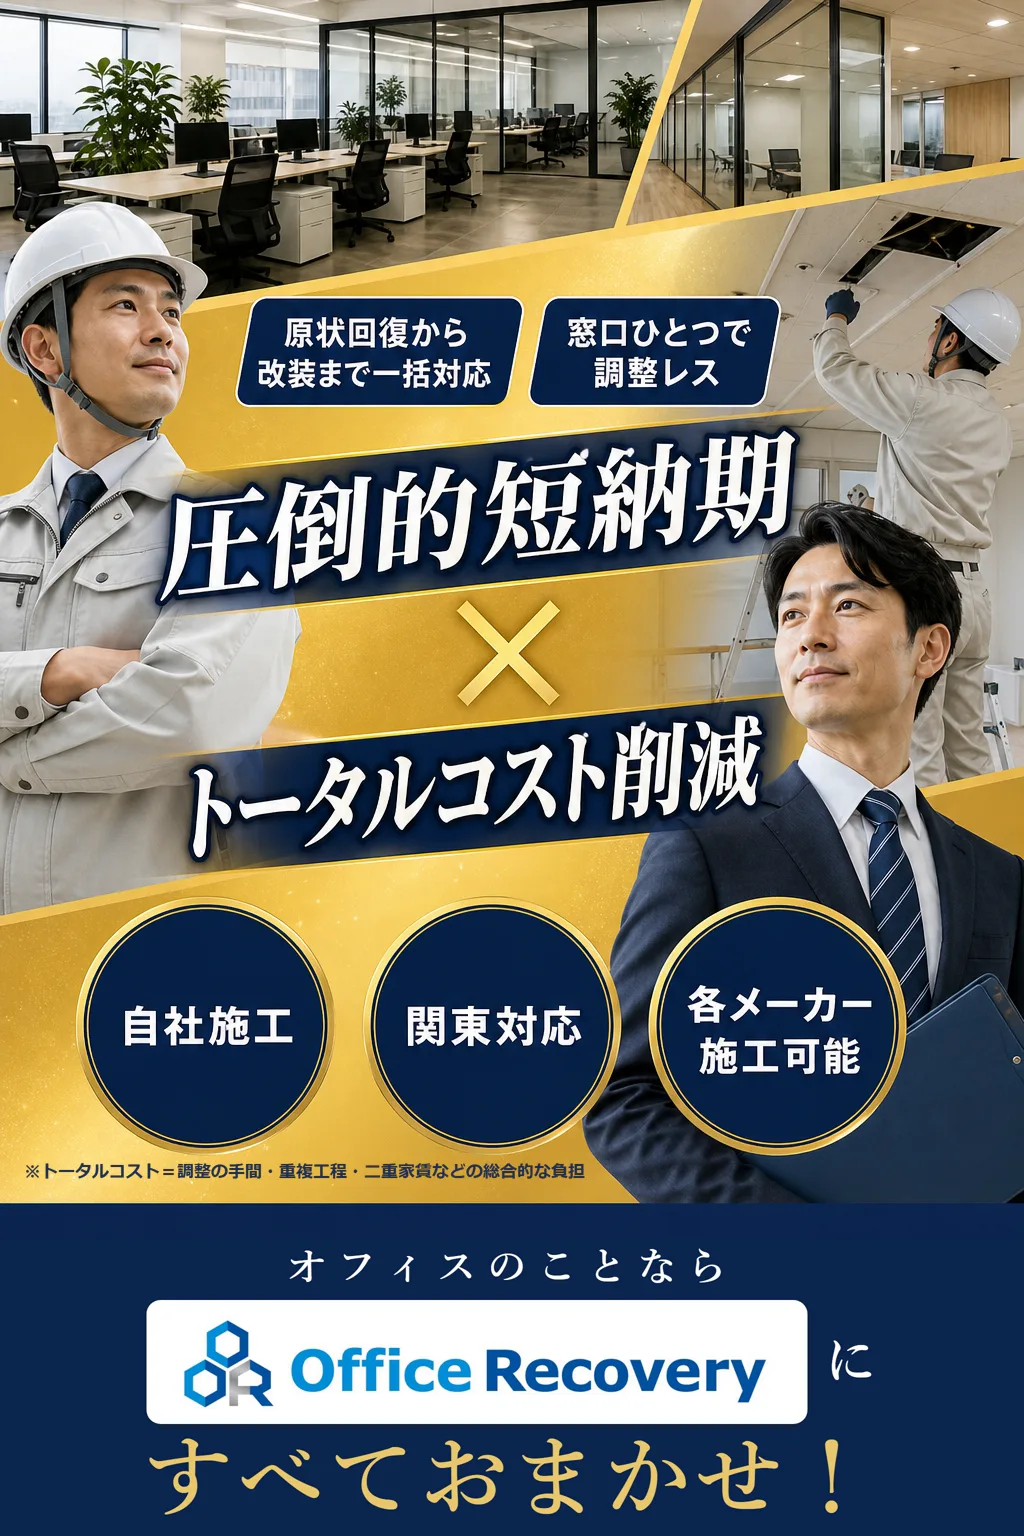
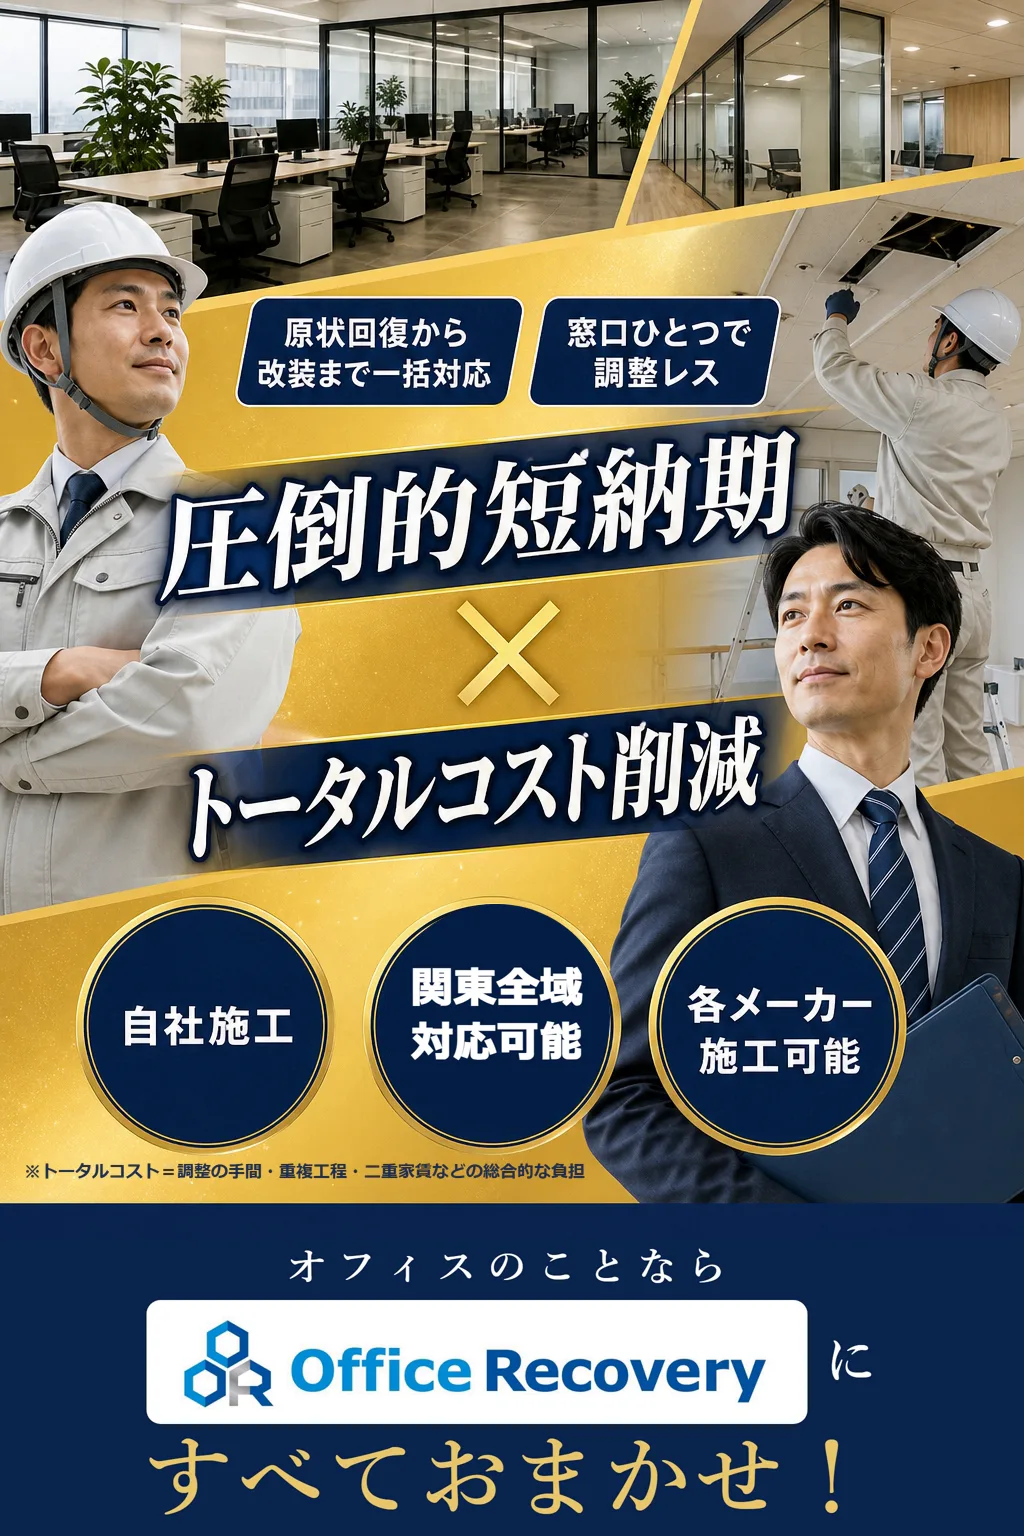
v32: drop redundant stats band, 2-line service pill with client copy, kanto-zeniki wording, CTA to "mazuwa muryou de soudan"

Changed region(s): [[0.375, 0.5938, 0.5938, 0.6875], [0.4688, 0.5625, 0.5, 0.5938]]

diff --git a/v32/index.html b/v32/index.html
@@ -4,9 +4,9 @@
   <meta charset="utf-8">
   <meta name="viewport" content="width=device-width, initial-scale=1">
   <title>Office Recovery｜原状回復も、新オフィス工事も、改装も。まるごとお任せ</title>
-  <meta name="description" content="圧倒的短納期×トータルコスト削減。オフィスの原状回復・新オフィス工事・改装をまるごとお任せ。窓口ひとつ・関東対応・初回相談とお見積りは無料。">
+  <meta name="description" content="圧倒的短納期×トータルコスト削減。オフィスの原状回復・新オフィス工事・改装をまるごとお任せ。窓口ひとつ・関東全域対応可能・初回相談とお見積りは無料。">
   <meta property="og:title" content="Office Recovery｜原状回復も、新オフィス工事も、改装も。まるごとお任せ">
-  <meta property="og:description" content="圧倒的短納期×トータルコスト削減。オフィスの原状回復・新オフィス工事・改装をまるごとお任せ。窓口ひとつ・関東対応・初回相談とお見積りは無料。">
+  <meta property="og:description" content="圧倒的短納期×トータルコスト削減。オフィスの原状回復・新オフィス工事・改装をまるごとお任せ。窓口ひとつ・関東全域対応可能・初回相談とお見積りは無料。">
   <meta property="og:image" content="images/x01.webp">
   <style>
     * { box-sizing: border-box; }
@@ -159,19 +159,18 @@
   <main class="page">
     <header class="site-header">
       <img src="images/logo.png" alt="Office Recovery">
-      <a href="mailto:contact@example.com?subject=%E3%80%90Office%20Recovery%E3%80%91%E7%84%A1%E6%96%99%E7%9B%B8%E8%AB%87&body=%E9%80%80%E5%8E%BB%E4%BA%88%E5%AE%9A%E6%97%A5%EF%BC%9A%0D%0A%E7%89%A9%E4%BB%B6%E6%89%80%E5%9C%A8%E5%9C%B0%EF%BC%9A%0D%0A%E3%81%8A%E3%81%8A%E3%82%88%E3%81%9D%E3%81%AE%E5%9D%AA%E6%95%B0%EF%BC%9A%0D%0A%E3%81%94%E7%9B%B8%E8%AB%87%E5%86%85%E5%AE%B9%EF%BC%9A%0D%0A">メールで<span class="free">無料</span>相談</a>
+      <a href="mailto:contact@example.com?subject=%E3%80%90Office%20Recovery%E3%80%91%E7%84%A1%E6%96%99%E7%9B%B8%E8%AB%87&body=%E9%80%80%E5%8E%BB%E4%BA%88%E5%AE%9A%E6%97%A5%EF%BC%9A%0D%0A%E7%89%A9%E4%BB%B6%E6%89%80%E5%9C%A8%E5%9C%B0%EF%BC%9A%0D%0A%E3%81%8A%E3%81%8A%E3%82%88%E3%81%9D%E3%81%AE%E5%9D%AA%E6%95%B0%EF%BC%9A%0D%0A%E3%81%94%E7%9B%B8%E8%AB%87%E5%86%85%E5%AE%B9%EF%BC%9A%0D%0A">まずは<span class="free">無料</span>で相談</a>
     </header>
 
-    <img src="images/x01.webp" alt="圧倒的短納期×トータルコスト削減。オフィスのことならOffice Recoveryにすべておまかせ！自社施工・関東対応・各メーカー施工可能。※トータルコスト＝調整の手間・重複工程・二重家賃などの総合的な負担を指します">
+    <img src="images/x01.webp" alt="圧倒的短納期×トータルコスト削減。オフィスのことならOffice Recoveryにすべておまかせ！自社施工・関東全域対応可能・各メーカー施工可能。※トータルコスト＝調整の手間・重複工程・二重家賃などの総合的な負担を指します">
 
     <div class="cta-band">
       <p class="lead">まずは工程の整理から、お気軽にどうぞ。</p>
-      <a href="mailto:contact@example.com?subject=%E3%80%90Office%20Recovery%E3%80%91%E7%84%A1%E6%96%99%E7%9B%B8%E8%AB%87&body=%E9%80%80%E5%8E%BB%E4%BA%88%E5%AE%9A%E6%97%A5%EF%BC%9A%0D%0A%E7%89%A9%E4%BB%B6%E6%89%80%E5%9C%A8%E5%9C%B0%EF%BC%9A%0D%0A%E3%81%8A%E3%81%8A%E3%82%88%E3%81%9D%E3%81%AE%E5%9D%AA%E6%95%B0%EF%BC%9A%0D%0A%E3%81%94%E7%9B%B8%E8%AB%87%E5%86%85%E5%AE%B9%EF%BC%9A%0D%0A">今すぐ！メールで<span class="free">無料</span>相談する</a>
+      <a href="mailto:contact@example.com?subject=%E3%80%90Office%20Recovery%E3%80%91%E7%84%A1%E6%96%99%E7%9B%B8%E8%AB%87&body=%E9%80%80%E5%8E%BB%E4%BA%88%E5%AE%9A%E6%97%A5%EF%BC%9A%0D%0A%E7%89%A9%E4%BB%B6%E6%89%80%E5%9C%A8%E5%9C%B0%EF%BC%9A%0D%0A%E3%81%8A%E3%81%8A%E3%82%88%E3%81%9D%E3%81%AE%E5%9D%AA%E6%95%B0%EF%BC%9A%0D%0A%E3%81%94%E7%9B%B8%E8%AB%87%E5%86%85%E5%AE%B9%EF%BC%9A%0D%0A">まずは<span class="free">無料</span>で相談</a>
       <p class="sub">退去日・物件所在地・おおよその坪数だけでOK<br><span class="ex">ボタンを押すと本文テンプレ（退去予定日／所在地／坪数／ご相談内容）が入ります</span></p>
     </div>
     <!-- LINE-BUTTON-SLOT: LINE公式開通後にここへボタン挿入 -->
 
-    <img src="images/y-stats.webp" alt="初回相談 無料／お見積り 無料／対応工事 12項目／対応エリア 関東対応" loading="lazy">
     <img src="images/x02.webp" alt="対応工事の一覧：オフィスレイアウト・パーティション間仕切り・壁面工事・床工事OAフロア・什器オフィス家具・受付サイン・電話回線LAN配線・セキュリティ工事・造作工事・原状回復不用品回収・空調工事・防災工事" loading="lazy">
     <img src="images/x03.webp" alt="オフィスの退去・移転・改装で、このようなお悩みはありませんか？" loading="lazy">
     <img src="images/y-declare.webp" alt="レイアウト作成から内装施工まで、オフィス内装のことはすべてOffice Recoveryにお任せください！" loading="lazy">
@@ -189,7 +188,7 @@
 
     <div class="cta-band">
       <p class="lead">移転全体の段取り、整理からお手伝いします。</p>
-      <a href="mailto:contact@example.com?subject=%E3%80%90Office%20Recovery%E3%80%91%E7%84%A1%E6%96%99%E7%9B%B8%E8%AB%87&body=%E9%80%80%E5%8E%BB%E4%BA%88%E5%AE%9A%E6%97%A5%EF%BC%9A%0D%0A%E7%89%A9%E4%BB%B6%E6%89%80%E5%9C%A8%E5%9C%B0%EF%BC%9A%0D%0A%E3%81%8A%E3%81%8A%E3%82%88%E3%81%9D%E3%81%AE%E5%9D%AA%E6%95%B0%EF%BC%9A%0D%0A%E3%81%94%E7%9B%B8%E8%AB%87%E5%86%85%E5%AE%B9%EF%BC%9A%0D%0A">メールで<span class="free">無料</span>相談する</a>
+      <a href="mailto:contact@example.com?subject=%E3%80%90Office%20Recovery%E3%80%91%E7%84%A1%E6%96%99%E7%9B%B8%E8%AB%87&body=%E9%80%80%E5%8E%BB%E4%BA%88%E5%AE%9A%E6%97%A5%EF%BC%9A%0D%0A%E7%89%A9%E4%BB%B6%E6%89%80%E5%9C%A8%E5%9C%B0%EF%BC%9A%0D%0A%E3%81%8A%E3%81%8A%E3%82%88%E3%81%9D%E3%81%AE%E5%9D%AA%E6%95%B0%EF%BC%9A%0D%0A%E3%81%94%E7%9B%B8%E8%AB%87%E5%86%85%E5%AE%B9%EF%BC%9A%0D%0A">まずは<span class="free">無料</span>で相談</a>
       <p class="sub">退去日・物件所在地・おおよその坪数だけでOK<br><span class="ex">ボタンを押すと本文テンプレ（退去予定日／所在地／坪数／ご相談内容）が入ります</span></p>
     </div>
 
@@ -199,11 +198,11 @@
     <img src="images/x06.webp" alt="ご依頼の流れ" loading="lazy">
     <img src="images/y-qa.webp" alt="よくあるご質問" loading="lazy">
 
-    <p class="fact-band">運営会社: 株式会社Center Field ／ 関東対応 ／ 自社施工 ／ お見積り無料</p>
+    <p class="fact-band">運営会社: 株式会社Center Field ／ 関東全域対応可能 ／ 自社施工 ／ お見積り無料</p>
 
     <img src="images/x07.webp" alt="原状回復も、新オフィス工事も、改装も。まとめて相談できる窓口です" loading="lazy">
     <div class="closing-cta">
-      <a href="mailto:contact@example.com?subject=%E3%80%90Office%20Recovery%E3%80%91%E7%84%A1%E6%96%99%E7%9B%B8%E8%AB%87&body=%E9%80%80%E5%8E%BB%E4%BA%88%E5%AE%9A%E6%97%A5%EF%BC%9A%0D%0A%E7%89%A9%E4%BB%B6%E6%89%80%E5%9C%A8%E5%9C%B0%EF%BC%9A%0D%0A%E3%81%8A%E3%81%8A%E3%82%88%E3%81%9D%E3%81%AE%E5%9D%AA%E6%95%B0%EF%BC%9A%0D%0A%E3%81%94%E7%9B%B8%E8%AB%87%E5%86%85%E5%AE%B9%EF%BC%9A%0D%0A">メールで<span class="free">無料</span>相談する</a>
+      <a href="mailto:contact@example.com?subject=%E3%80%90Office%20Recovery%E3%80%91%E7%84%A1%E6%96%99%E7%9B%B8%E8%AB%87&body=%E9%80%80%E5%8E%BB%E4%BA%88%E5%AE%9A%E6%97%A5%EF%BC%9A%0D%0A%E7%89%A9%E4%BB%B6%E6%89%80%E5%9C%A8%E5%9C%B0%EF%BC%9A%0D%0A%E3%81%8A%E3%81%8A%E3%82%88%E3%81%9D%E3%81%AE%E5%9D%AA%E6%95%B0%EF%BC%9A%0D%0A%E3%81%94%E7%9B%B8%E8%AB%87%E5%86%85%E5%AE%B9%EF%BC%9A%0D%0A">まずは<span class="free">無料</span>で相談</a>
     </div>
 
     <!-- FORM-SLOT: 問い合わせフォーム実装時にここへ挿入 -->
@@ -216,7 +215,7 @@
     <div class="cta-spacer"></div>
   </main>
   <div class="sticky-cta">
-    <a href="mailto:contact@example.com?subject=%E3%80%90Office%20Recovery%E3%80%91%E7%84%A1%E6%96%99%E7%9B%B8%E8%AB%87&body=%E9%80%80%E5%8E%BB%E4%BA%88%E5%AE%9A%E6%97%A5%EF%BC%9A%0D%0A%E7%89%A9%E4%BB%B6%E6%89%80%E5%9C%A8%E5%9C%B0%EF%BC%9A%0D%0A%E3%81%8A%E3%81%8A%E3%82%88%E3%81%9D%E3%81%AE%E5%9D%AA%E6%95%B0%EF%BC%9A%0D%0A%E3%81%94%E7%9B%B8%E8%AB%87%E5%86%85%E5%AE%B9%EF%BC%9A%0D%0A">メールで<span class="free">無料</span>相談する</a>
+    <a href="mailto:contact@example.com?subject=%E3%80%90Office%20Recovery%E3%80%91%E7%84%A1%E6%96%99%E7%9B%B8%E8%AB%87&body=%E9%80%80%E5%8E%BB%E4%BA%88%E5%AE%9A%E6%97%A5%EF%BC%9A%0D%0A%E7%89%A9%E4%BB%B6%E6%89%80%E5%9C%A8%E5%9C%B0%EF%BC%9A%0D%0A%E3%81%8A%E3%81%8A%E3%82%88%E3%81%9D%E3%81%AE%E5%9D%AA%E6%95%B0%EF%BC%9A%0D%0A%E3%81%94%E7%9B%B8%E8%AB%87%E5%86%85%E5%AE%B9%EF%BC%9A%0D%0A">まずは<span class="free">無料</span>で相談</a>
   </div>
 </body>
 </html>
